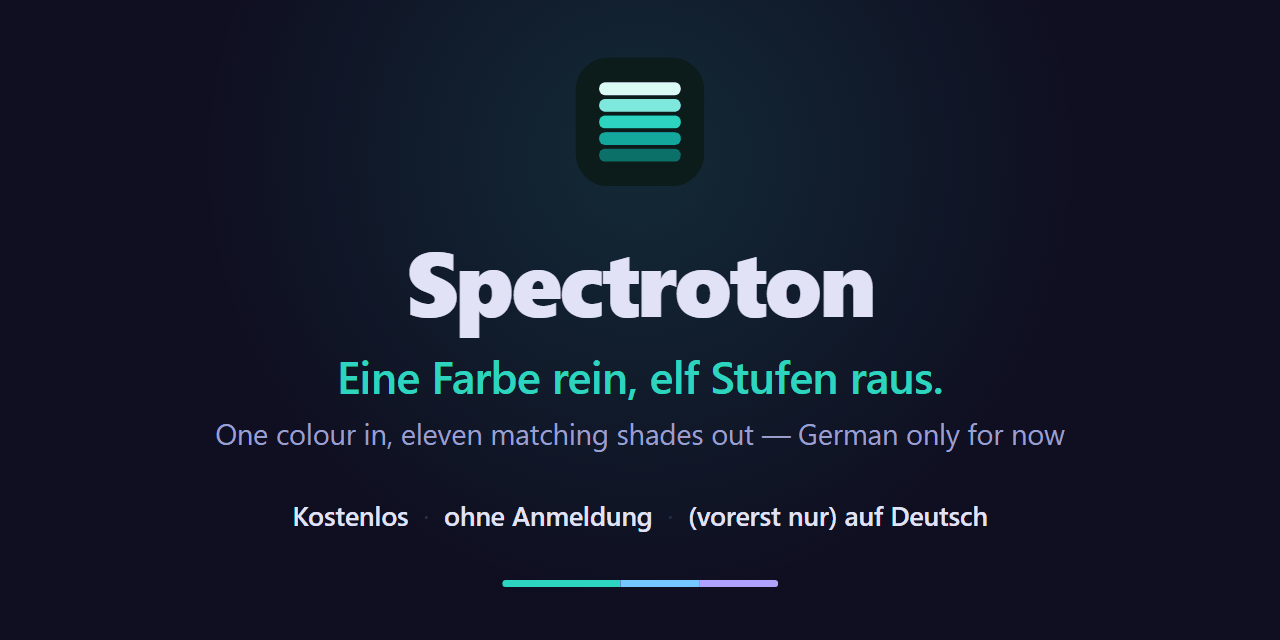
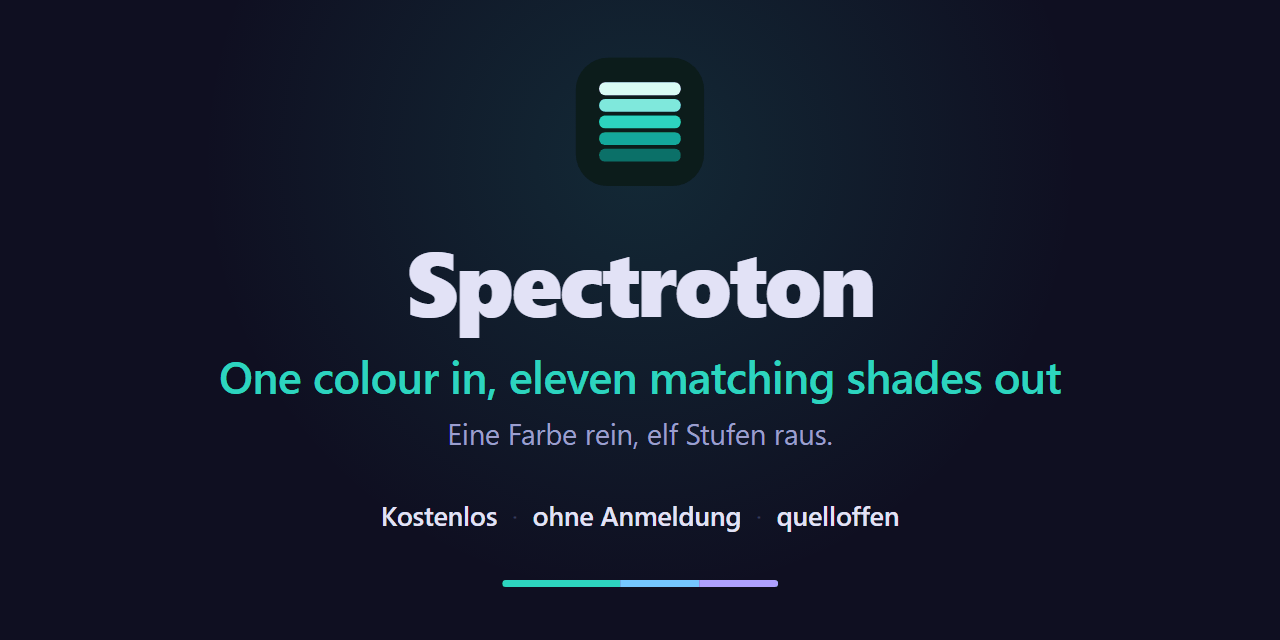
feat: Vorschaubilder ohne den Sprachvorbehalt
Die drei ausgelieferten Bilder trugen "(vorerst nur) auf Deutsch" als
Pixel eingebrannt und der englische Claim endete auf "German only for
now". Beides stimmt seit der Umstellung auf vierzehn Sprachen nicht mehr.

Neu gerendert aus dem zusammengeführten Generator. Die dritte Zusage ist
jetzt "quelloffen" — MIT, wie die LICENSE zeigt, und ein Wort ohne Zahl,
das nicht still veraltet. Der englische Claim passt dadurch wieder auf
eine Zeile statt auf zwei.

og:image:alt beschreibt jetzt das Bild, das wirklich ausgeliefert wird.
Es blieb bis zu diesem Commit bewusst unverändert, weil es sonst etwas
beschrieben hätte, das nicht zu sehen ist.

Changed region(s): [[0.1562, 0.5625, 0.8438, 0.625], [0.1562, 0.6562, 0.8438, 0.7188], [0.2188, 0.7812, 0.7812, 0.8438]]

diff --git a/index.html b/index.html
@@ -17,7 +17,7 @@
 <meta property="og:image" content="https://dennismit2n.github.io/spectroton/og.png">
 <meta property="og:image:width" content="1200">
 <meta property="og:image:height" content="630">
-<meta property="og:image:alt" content="Dunkelblaue Grafik: das Symbol von Spectroton als fünfstufige Farbrampe, darunter groß der Name „Spectroton“ und die Zeile „Eine Farbe rein, elf Stufen raus.“ Unten „Kostenlos, ohne Anmeldung, (vorerst nur) auf Deutsch“.">
+<meta property="og:image:alt" content="Dark graphic: the Spectroton icon as a five-step colour ramp, below it the name “Spectroton”, the line “One colour in, eleven matching shades out” and, smaller, „Eine Farbe rein, elf Stufen raus.“ At the bottom „Kostenlos, ohne Anmeldung, quelloffen“.">
 <meta property="og:locale" content="en_US">
 <meta property="og:locale:alternate" content="de_DE">
 <meta name="twitter:card" content="summary_large_image">
